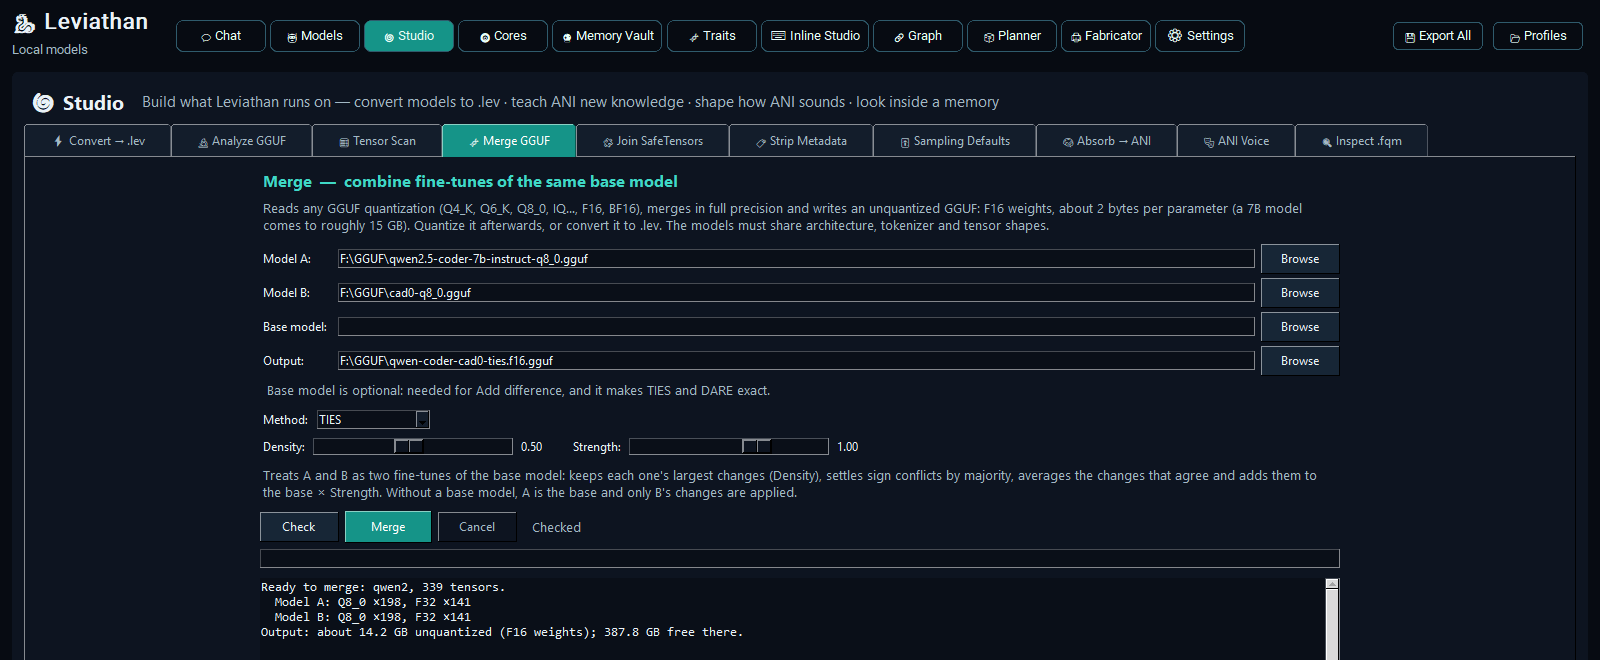
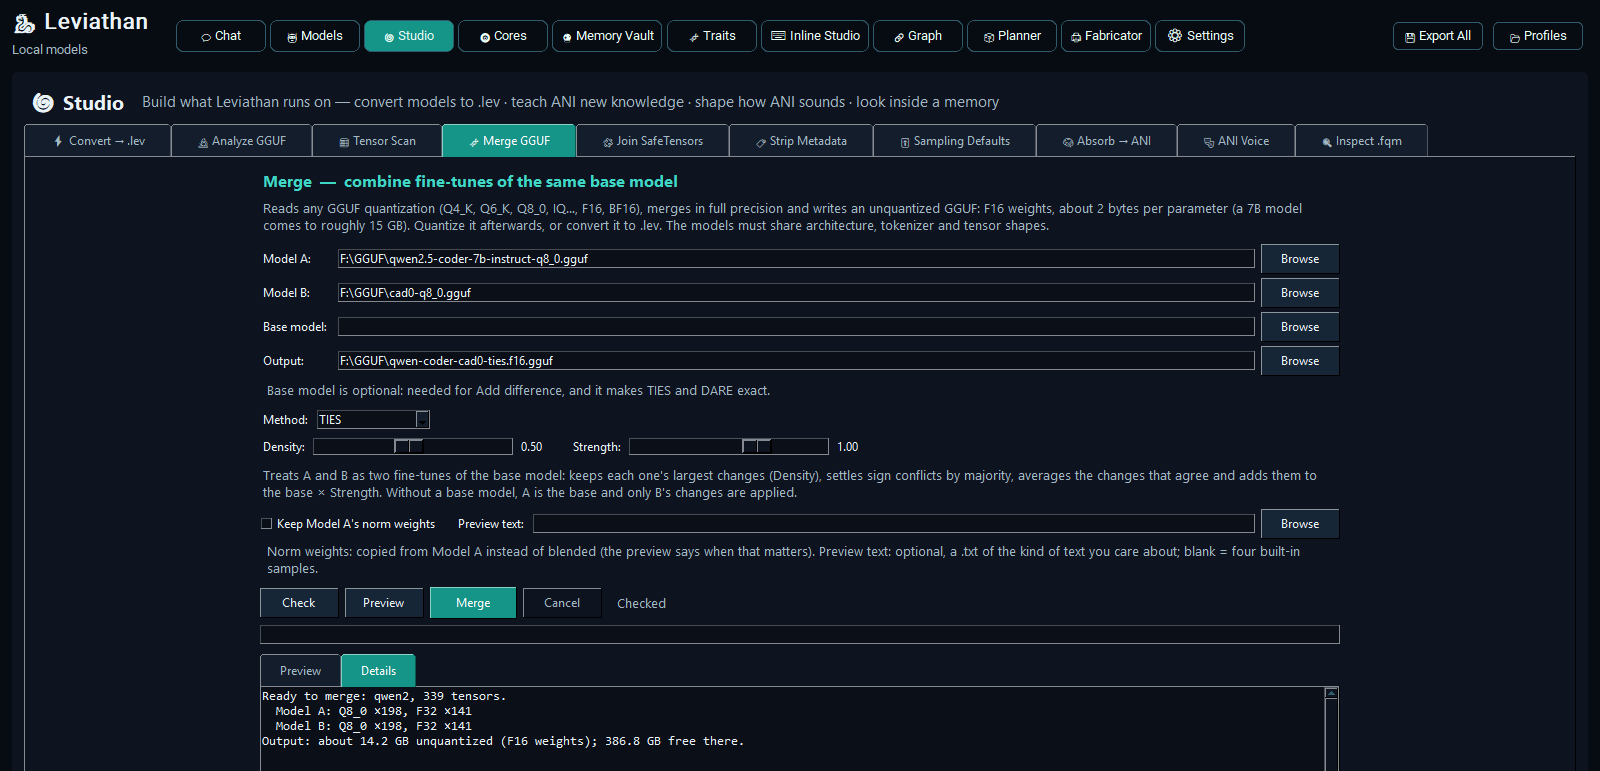
Updated
Mergekit GUI updated with a preview of what you will get prior to the merge, also Magnifier for middle mouse button so that you can zoom out at a large distance on graphs and see close up super clean, point hover and mouse middle button to use it.

diff --git a/README.md b/README.md
@@ -231,6 +231,15 @@ Model merging in a window: [mergekit](https://github.com/arcee-ai/mergekit)'s co
 <p align="center"><img src="screenshots/studio-merge.png" width="900" alt="Merge GGUF: Qwen 2.5 Coder 7B and cad0, its CAD fine-tune, checked for a TIES merge" /></p>
 <p align="center"><sub>Qwen 2.5 Coder 7B and cad0, a CAD fine-tune of the same model, checked for a TIES merge: they fit, and the F16 result would be about 14.2 GB. Nothing is written until you press Merge.</sub></p>
 
+**Preview — see what a merge does before you write it.** Merging usually means writing a 15 GB file first and finding out afterwards whether it works. **Preview** answers before anything is written, in two steps:
+- **The weights, in seconds** — how far apart the two models are, layer by layer, and a short list of what to watch in plain words. It catches a trap that can break a merge outright: normalisation channels switched off in one model and on in the other, which any blend switches partly back on.
+- **The result, measured** — Model A, Model B and the merge (at your setting, two neighbouring settings, and with A's norm weights kept when that trap shows up) each read real text, and Preview scores how surprised each one is: a shorter bar is better, with a plain verdict — better than both, between the two, about the same, worse than both, or likely broken. The merged weights it scores come from the same code that writes the file, so the forecast is the merge you would get. It runs on the CPU, about a minute per billion parameters, for Llama- and Qwen-shaped models (the weight comparison works for any pair Merge accepts). Point **Preview text** at a file of your own to score the kind of writing you care about.
+
+**Keep Model A's norm weights** copies those small normalisation weights from Model A instead of blending them; Preview shows when that matters.
+
+<p align="center"><img src="screenshots/studio-merge-preview.png" width="900" alt="Merge Preview for Qwen 2.5 Coder 7B blended 50/50 with cad0: a verdict of likely broken, bars for each model and setting, a per-layer chart with layer 1 flagged, and the list of what to watch" /></p>
+<p align="center"><sub>Qwen 2.5 Coder 7B blended 50/50 with cad0, its own CAD fine-tune: Preview finds 1,390 of layer 1's normalisation channels switched off in Qwen and on in cad0, and measures the blend as likely broken — 5.3× more surprised by the text than Qwen, and the same at 25 % and 75 %. Keeping Qwen's norm weights avoids the collapse, but that blend still scores worse than either model. Nothing was written.</sub></p>
+
 **🔹 Join SafeTensors**
 Hugging Face splits big models into numbered pieces (`model-00001-of-00004.safetensors` …) plus an index file. This joins them into one `.safetensors` file holding every tensor, byte for byte. Nothing is converted, any data type works, and memory use stays small whatever the model's size. Pick a piece, the `.index.json` or the model's folder. **Check** lists the pieces, tensors and output size before anything is written, and the pieces are never touched.
 - **Output** — by default a folder of its own (`<model folder>-joined\model.safetensors`) with the config and tokenizer files copied beside it, ready to load or convert. Keep it out of the pieces' folder: llama.cpp's converter reads the pieces listed in the index while that file is there, and every `model*.safetensors` in the folder when it isn't.
@@ -357,6 +366,11 @@ The right-hand column is the team — the models taking part on top, their runni
 A visual node canvas: wire up shapes, numbers, expressions and snippets of code into a graph that computes a result. These are Leviathan's **own** nodes, not a bolted-on third-party pack — each does one clear thing, and the wires carry values between them.
 
 **Eighty-seven of them, in fifteen families.** **Maths** — Math, Function, Clamp, Map Range, Mix, Snap to a step, a seeded Random (the same seed, the same numbers), Range, Statistics, Constants, Unit Convert. **Logic** — Compare, and / or / xor / not, Switch. **Text** — Join, Split, Replace, Find, Format, Number ↔ Text. **Lists** — Get Item, Slice, Sort, Unique, and Map Numbers / Keep Where, which take a formula. **Data** — Get and Set Field, Keys & Values, CSV → Table, Column. **Thirty shape nodes**, among them Tube, Torus, Rounded Box, Regular Polygon (six sides and you have a nut trap), Offset, Grid Array, Trim, Place On Bed, Simplify and Cross Section. **Measure** and **Bounds**, so one part's real size can drive the next — a lid that sits exactly on its box. **Show**, which puts just the answers in the log. And **Ask Model** / **Ask ANI**, which put your own model or your knowledge banks inside a pipeline. You don't have to browse for them: the **🔎 search** beside the palette finds any node by its name or by what it does — *nut trap* finds Regular Polygon, *average* finds Statistics — and Enter drops the top match onto the canvas. A setting with fixed choices is a menu, not a guess. A graph built only from pure nodes re-makes its part live as you edit; formulas are arithmetic only; and nothing reaches the internet — the one node that speaks HTTP talks only to a model server on your own PC.
+
+**A magnifier for big graphs.** Zoom out far enough to see a whole graph and the text on its nodes shrinks with everything else. Hold the **middle mouse button** and a lens follows the pointer, redrawing the nodes under it at full size — sharp, because it redraws them rather than enlarging pixels — much like Windows Magnifier's lens. Let go and it's gone; clicks and drags still reach the canvas while it's up. **🔍 Magnify on hover** brings the lens up without a button whenever you're zoomed out.
+
+<p align="center"><img src="screenshots/graph-magnifier.gif" width="716" alt="A 47-node graph zoomed out until its text is unreadable, with the magnifier lens gliding across it and showing each node at full size" /></p>
+<p align="center"><sub>A parametric enclosure script as 47 nodes, zoomed out to 25 %: the middle button held, the lens glides across it at full size.</sub></p>
 
 What lifts it past an ordinary node editor is that a **model — or ANI — can read and build the graph alongside you.** The old trap with model-driven node tools was that the model was never told which nodes or ports existed, so it guessed and the whole thing fell apart — Leviathan hands the model that context, so it actually knows the graph it is working in and can lay one out or extend it on request. Ask in the graph's own chat box, or press **◆ ANI** to put the question to your knowledge banks instead. In the public build a model may *propose and build* a graph, but **only you run it**: the host keeps the trigger, never the guest. The model's graph-building turns draw on their own **Token budget**, set per surface in [Settings] like every other place a model writes.
 
